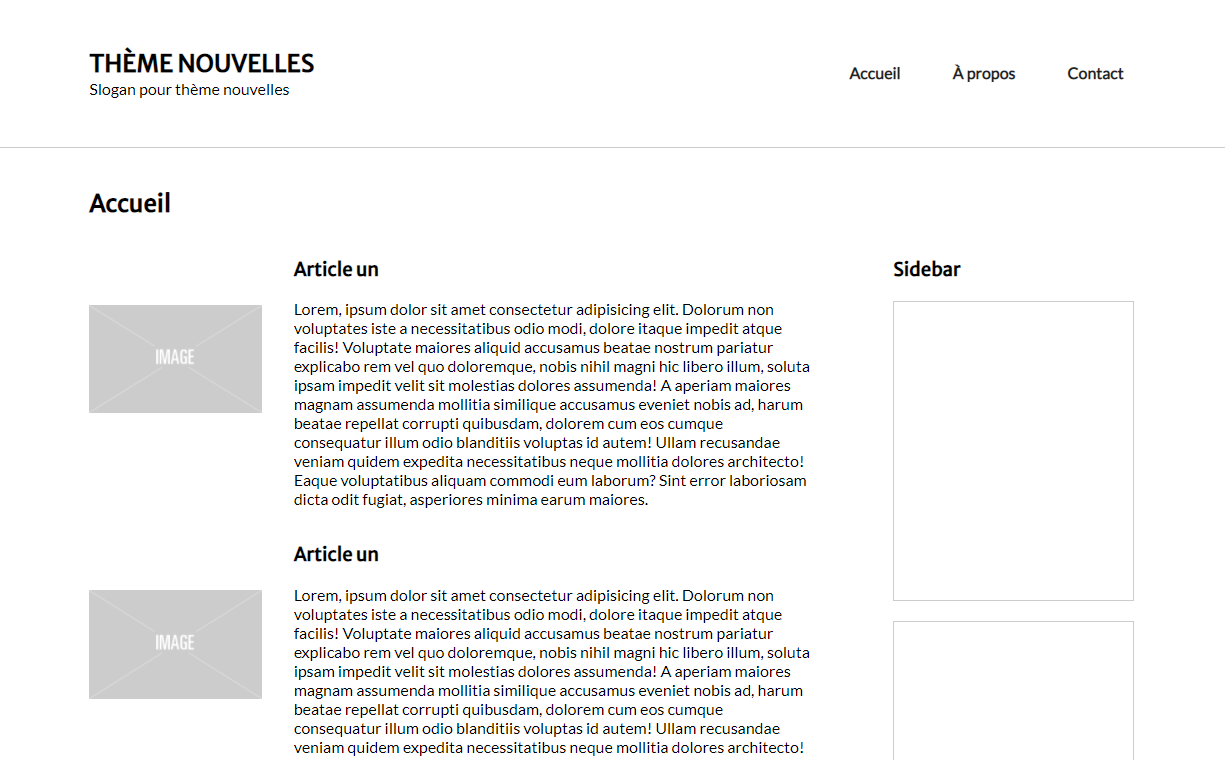
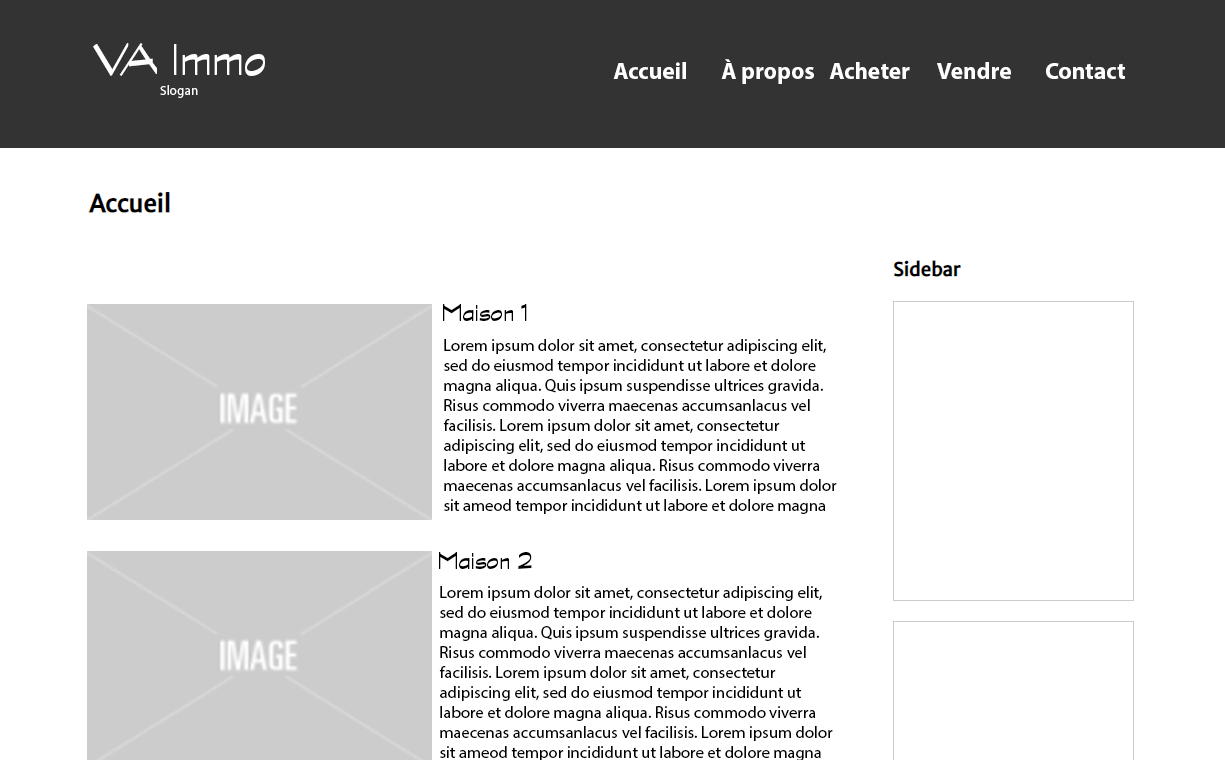
retouche

diff --git a/styles/main.css b/styles/main.css
@@ -1,40 +1,30 @@
-@import url("https://fonts.googleapis.com/css2?family=Lato&family=Merriweather+Sans&display=swap");
-
+@import url('https://fonts.googleapis.com/css2?family=Kaushan+Script&family=Oxygen:wght@300;400&display=swap');
 :root {
     /*Polices*/
-    --police-principale: "Lato";
-    --police-titres: "Merriweather Sans";
-
+    --police-principale: 'Oxygen';
+    --police-titres: 'Kaushan Script';
     /*Palette de couleurs*/
-    --clr-principale: #212e53;
-    --clr-accent: #bed3c3;
-    --clr-sombre: #111;
-    --clr-claire: #efefef;
-
+    --clr-principale: #444;
+    --clr-accent: #ff0000;
+    --clr-sombre: #222;
+    --clr-claire: #eee;
     /*Mesures*/
     --largeur-contenus: 85%;
 }
 
+
 /* Reset */
 
-*,
-*::before,
-*::after {
+* {
     box-sizing: border-box;
+    margin: 0;
+    padding: 0;
 }
 
-input,
-button,
-textarea,
-select {
-    font: inherit;
-}
 
 /* Base */
 
 body {
-    margin: 0;
-    padding: 0;
     font-family: var(--police-principale);
     min-height: 100vh;
 }
@@ -68,6 +58,7 @@ a {
     display: flex;
     align-items: center;
 }
+
 
 /* Grille */
 
@@ -115,6 +106,8 @@ h1 a {
     color: #222;
     text-decoration: none;
 }
+
+
 /* Menus */
 
 .menu {
@@ -145,6 +138,7 @@ h1 a {
     font-weight: normal;
 }
 
+
 /* Contenus */
 
 .quart img {
@@ -164,12 +158,12 @@ h1 a {
 }
 
 .widget-container {
-    height: 300px;
+    height: 400px;
     margin-top: 20px;
 }
 
 footer {
-    height: 120px;
+    height: 100px;
     border-top: 1px solid #ccc;
     margin-top: auto;
     text-align: right;
@@ -179,40 +173,31 @@ footer {
     .flex {
         justify-content: center;
     }
-
     header,
     footer {
         text-align: center;
     }
-
     .conteneur {
         width: 95%;
     }
-
     .flex {
         flex-wrap: wrap;
     }
-
     .quart {
         flex-basis: 100%;
     }
-
     .quart img {
         margin-top: 0;
     }
-
     .demi {
         flex-basis: 100%;
     }
-
     .trois-quart {
         flex-basis: 100%;
     }
-
     article {
         margin-bottom: 100px;
     }
-
     .sidebar {
         margin-left: 0;
     }

diff --git a/style.css b/style.css
@@ -1,6 +1,6 @@
 /*
-    Theme Name: Simple News
+    Theme Name: Immo
     Author: R. Beaumont
-    Description: Simple thème Wordpress de type magazine servant de démonstration
+    Description: Simple thème Wordpress de type magazine servant d'exercice
     Version: 0.1
 */

diff --git a/header.php b/header.php
@@ -5,6 +5,7 @@
     <meta charset="<?php bloginfo( 'charset' ) ?>">
     <meta http-equiv="X-UA-Compatible" content="IE=edge">
     <meta name="viewport" content="width=device-width, initial-scale=1.0">
+    <link rel="stylesheet" href="https://cdnjs.cloudflare.com/ajax/libs/font-awesome/6.0.0/css/all.min.css" integrity="sha512-9usAa10IRO0HhonpyAIVpjrylPvoDwiPUiKdWk5t3PyolY1cOd4DSE0Ga+ri4AuTroPR5aQvXU9xC6qOPnzFeg==" crossorigin="anonymous" referrerpolicy="no-referrer"/>
     <title><?php bloginfo( 'title' ); ?></title>
 
 <!-- Action hook : Placeholder pour le code de wordpress -->
@@ -35,11 +36,17 @@
             ?>
 
                 <!-- <ul class="menu">
-                    <li><a href="#" class="btn">Accueil</a></li>
                     <li><a href="#" class="btn">À propos</a></li>
+                    <li><a href="#" class="btn">Acheter</a></li>
+                    <li><a href="#" class="btn">Vendre</a></li>
                     <li><a href="#" class="btn">Contact</a></li>
                 </ul> -->
             </nav>
+            <div class="reseaux">
+                <div class="facebook"><a href="https://www.facebook.com/victorandrea.perego.5"><i class="fa-brands fa-facebook-square"></i></a></div>
+                <div class="phone"><a href="tel:1418-429-8746"><i class="fa-solid fa-square-phone"></i> 418 429-8746</a></div>
+                <div class="mail"><a href="mailto:va.perego@gmail.com"><i class="fa-solid fa-envelope"></i> va.perego@gmail.com</a></div>
+            </div>
         </div>
     </header>
 

diff --git a/functions.php b/functions.php
@@ -2,7 +2,7 @@
 
 // Lier la feuille de style et les fonts au projet
 
-function simplenews_enqueue_styles(){
+function immo_enqueue_styles(){
 
     wp_enqueue_style( 'latofont', 'https://fonts.googleapis.com/css2?family=Lato&display=swap' );
 
@@ -12,12 +12,12 @@ function simplenews_enqueue_styles(){
 
 }
 
-add_action( 'wp_enqueue_scripts', 'simplenews_enqueue_styles' );
+add_action( 'wp_enqueue_scripts', 'immo_enqueue_styles' );
 
 
 // Supports de thème
 
-function simplenews_add_theme_support(){
+function immo_add_theme_support(){
 
     add_theme_support( 'post-thumbnails' );
 
@@ -25,22 +25,22 @@ function simplenews_add_theme_support(){
 
 }
 
-add_action( 'after_setup_theme', 'simplenews_add_theme_support' );
+add_action( 'after_setup_theme', 'immo_add_theme_support' );
 
 
 //declarer les menus
-function simplenews_register_menus(){
+function immo_register_menus(){
     register_nav_menus( array(
         'main-menu' => __('Menu principal')
     ));
 }
 
-add_action( 'after_setup_theme', 'simplenews_register_menus' );
+add_action( 'after_setup_theme', 'immo_register_menus' );
 
 
 //Déclarer les widgets
 
-function simplenews_widgets_init($id){
+function immo_widgets_init($id){
 
     register_sidebar( array(
         'name' => 'Widget 1',
@@ -61,4 +61,4 @@ function simplenews_widgets_init($id){
 
 }
 
-add_action( 'widgets_init', 'simplenews_widgets_init' );
+add_action( 'widgets_init', 'immo_widgets_init' );

diff --git a/footer.php b/footer.php
@@ -1,7 +1,12 @@
 </main>
     <footer class="flex v-aligne">
-        <div class="conteneur">
-            <p><?php bloginfo( 'name' ) ?>, tous droits réservés &copy <?php echo(date('Y')) ?></p>
+        <div class="footer-link">
+            <a href="https://www.facebook.com/victorandrea.perego.5"><i class="fa-brands fa-facebook-square"></i></a>
+            <a href="tel:1418-429-8746"><i class="fa-solid fa-square-phone"></i></a>
+            <a href="mailto:va.perego@gmail.com"><i class="fa-solid fa-envelope"></i></a>
+        </div>
+        <div>
+            <p>&copy; <?php echo(date('Y')) ?> Beaumont Rémy - Réalisé dans le cadre scolaire de quatrième session au collégial. </p>
         </div>
     </footer>
     <?php wp_footer(  ); ?>

diff --git a/templates/template-home.php b/templates/template-home.php
@@ -11,12 +11,6 @@ Template Name: Gabarit accueil
 <?php get_header( ) ?>
 
 <?php  
-
-    // $args = array(
-    //     'category_name' => 'Techno',
-    //     'post_type' => 'post'
-    // );
-
     $args = array(
         'category__not_in' => 1
     );

diff --git a/sidebar.php b/sidebar.php
@@ -1,7 +1,5 @@
 <article>
 
-    <h3>Complément</h3>
-
     <div class="widget-container">
 
         <?php if (is_active_sidebar( 'widget-1' )) {
